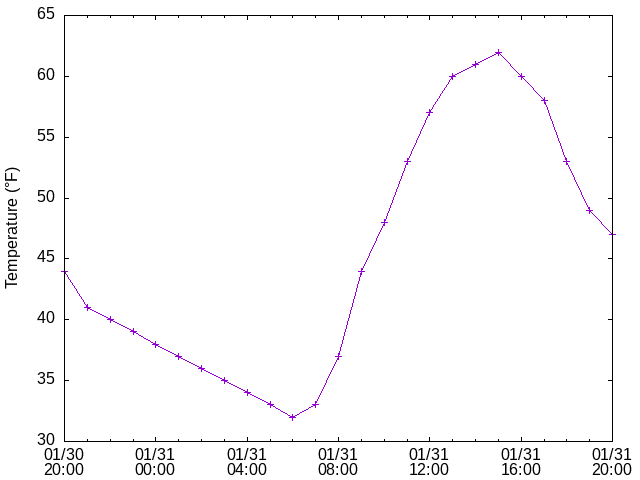
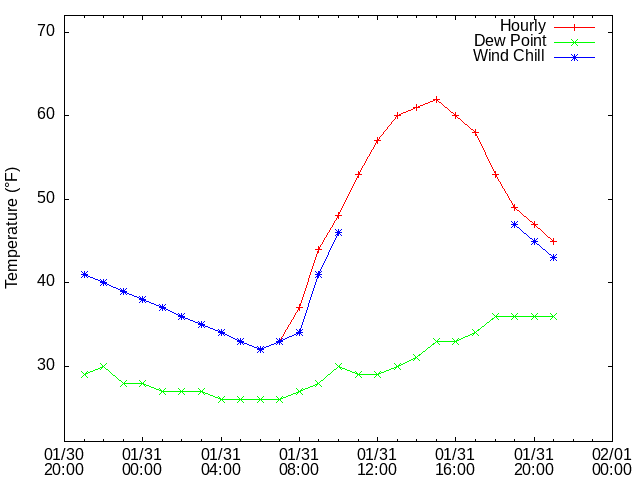
delete some comments; handle missing temperatures

diff --git a/weather.go b/weather.go
@@ -7,6 +7,7 @@ import (
 	"net/http"
 	"os"
 	"os/exec"
+	"strconv"
 	"strings"
 	"time"
 )
@@ -15,6 +16,7 @@ const (
 	url      = "https://forecast.weather.gov/MapClick.php?lat=34.3651&lon=-89.5196&FcstType=digitalDWML"
 	longFmt  = "2006-01-02T15:04:05-07:00"
 	shortFmt = "01-02/15:00"
+	badInt = -999
 )
 
 type Result struct {
@@ -49,8 +51,8 @@ type Parameters struct {
 
 type Temperature struct {
 	// Type is either "dew point", "wind chill", or "hourly"
-	Type  string `xml:"type,attr"`
-	Value []int  `xml:"value"`
+	Type  string   `xml:"type,attr"`
+	Value []string `xml:"value"`
 }
 
 type Wind struct {
@@ -77,18 +79,21 @@ func main() {
 		panic(err)
 	}
 	temps := make(map[string][]int)
-	for _, t := range res.Data.Parameters.Temps {
-		temps[t.Type] = t.Value
+	for _, ts := range res.Data.Parameters.Temps {
+		// this allows me to check for bad values, such as
+		// missing wind chills
+		for _, t := range ts.Value {
+			v, err := strconv.Atoi(t)
+			if err != nil {
+				v = badInt
+			}
+			temps[ts.Type] = append(temps[ts.Type], v)
+		}
 	}
 	winds := make(map[string][]int)
 	for _, t := range res.Data.Parameters.Winds {
 		winds[t.Type] = t.Value
 	}
-	// fmt.Println(len(res.Data.Parameters.Clouds))
-	// fmt.Println(len(res.Data.Parameters.Rain))
-	// fmt.Println(len(res.Data.Times.Values))
-	// fmt.Println(len(res.Data.Parameters.Humidity))
-	// fmt.Println(len(res.Data.Parameters.Direction))
 	now := time.Now().Format(longFmt)
 	var start int
 	// make sure we start at the current time
@@ -106,20 +111,57 @@ func main() {
 	if err != nil {
 		panic(err)
 	}
+	tmax := temps["hourly"][start]
+	tmin := tmax
 	for i, t := range res.Data.Times.Values[start : end+1] {
 		tt, _ := time.Parse(longFmt, t)
-		fmt.Fprintf(f, "%s %d\n", tt.Format(shortFmt), temps["hourly"][i])
+		h := temps["hourly"][i]
+		d := temps["dew point"][i]
+		w := temps["wind chill"][i]
+		tmax = max(h, d, tmax)
+		tmin = min(h, d, tmin)
+		fmt.Fprintf(f, "%s %d %d %d\n", tt.Format(shortFmt),
+			h, d, w,
+		)
 	}
 	cmd := exec.Command("gnuplot", "--persist")
-	// set xrange ["11/24/21":"12/01/21"]
-	cmd.Stdin = strings.NewReader(`set terminal png medium size 640,480 font arial 12
+	cmd.Stdin = strings.NewReader(
+		fmt.Sprintf(`set terminal png medium size 640,480 font arial 12
 set output 'out.png'
 set bmargin 2.5
-unset key
 set xdata time
-set timefmt "%m-%d/%H:%M"
+set timefmt "%%m-%%d/%%H:%%M"
 set ylabel "Temperature (°F)"
-plot "/tmp/weather.dat" using 1:2 with linespoints
-`)
+set yrange [%d:%d]
+plot "/tmp/weather.dat" u 1:2 w linespoints lc rgb "red" title "Hourly", \
+"/tmp/weather.dat" u 1:3 w linespoints lc rgb "green" title "Dew Point", \
+"/tmp/weather.dat" u 1:($4 == %d ? NaN : $4) w linespoints lc rgb "blue" title "Wind Chill"
+`, tmin-5, tmax+10, badInt))
 	cmd.Run()
+}
+
+func max(ds ...int) int {
+	max := ds[0]
+	if len(ds) < 2 {
+		return max
+	}
+	for _, d := range ds[1:] {
+		if d > max {
+			max = d
+		}
+	}
+	return max
+}
+
+func min(ds ...int) int {
+	min := ds[0]
+	if len(ds) < 2 {
+		return min
+	}
+	for _, d := range ds[1:] {
+		if d < min && d != -999 {
+			min = d
+		}
+	}
+	return min
 }
